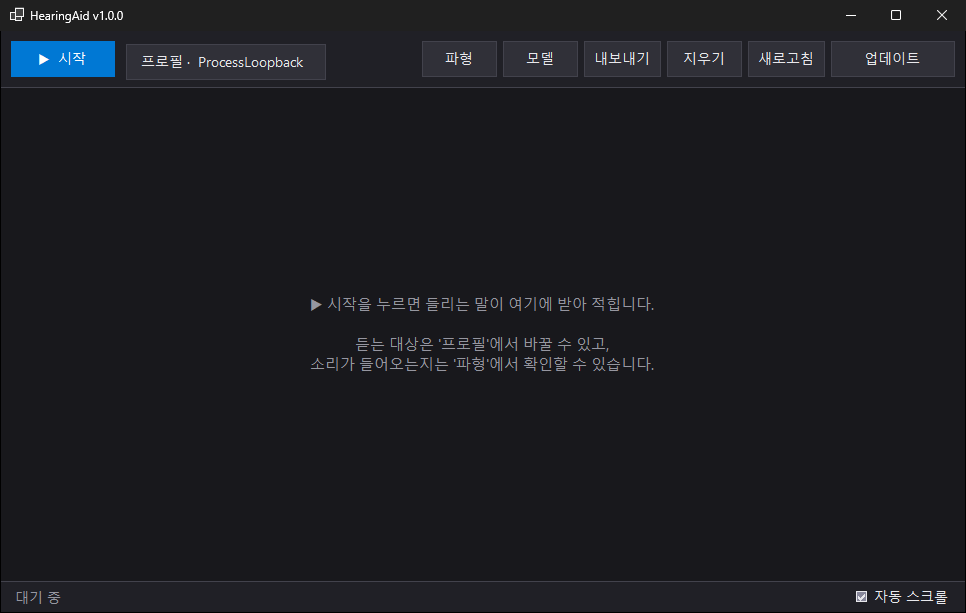
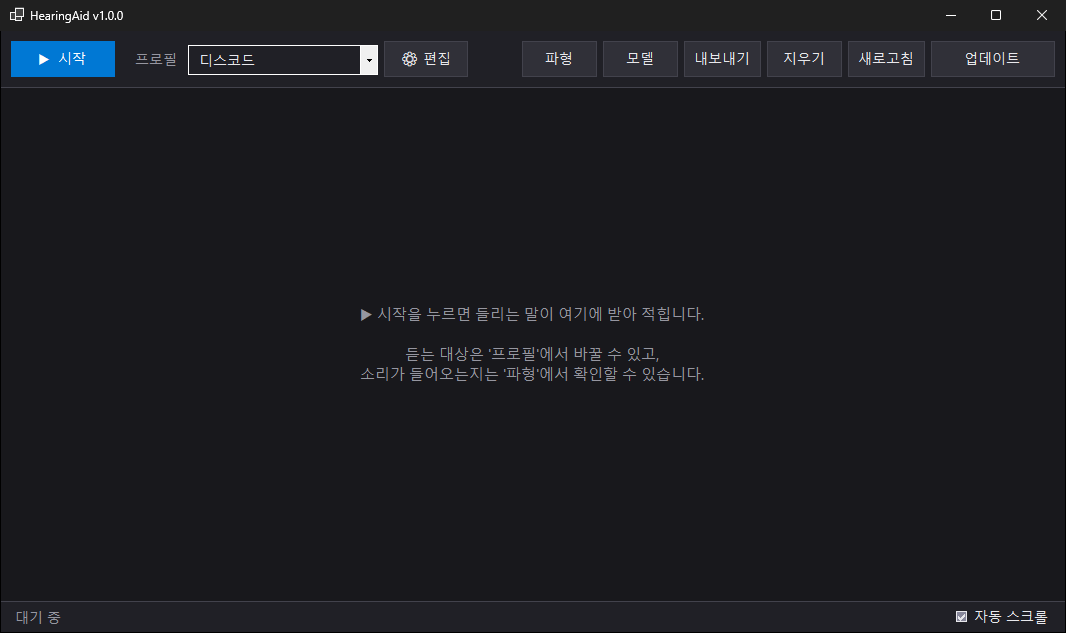
프로필 UI 정리: 기본값 항목 제거, 메인에서 바로 전환, 사용 중 표시 갱신
- 프로필 편집 창에서 "(기본값)" 항목 제거. 프로필이 없으면 안내 문구 표시
- "이 프로필 사용"(이전 "적용") 직후 초록 점·사용 중 표시가 갱신되지 않던 문제 수정
  (MainForm이 새 엔진으로 바꾸기 전이라 이전 엔진의 설정을 보고 있었음)
- 메인: 헷갈리던 "프로필 · 이름" 버튼을 프로필 목록(바로 전환) + "⚙ 편집" 버튼으로 분리
- 콤보박스 항목을 직접 그려 선택 항목이 흰 바탕으로 튀던 문제 해결
- 창 폭을 늘려 도구 모음 버튼이 겹치지 않게
- README·Discord 문서와 스크린샷을 바뀐 이름에 맞춤

diff --git a/src/UI/WinForms/ProfileSettingsForm.cs b/src/UI/WinForms/ProfileSettingsForm.cs
@@ -80,6 +80,12 @@ public class ProfileSettingsForm : Form
 
     string ProfilePath(string name) => Path.Combine(profilesDir, name + ".json");
 
+    /// <summary>사용 중인 프로필 이름. "사용"을 누른 직후에는 MainForm이 아직 새 엔진으로 바꾸기 전이라
+    /// engine.Config는 이전 프로필을 가리키므로, 이 창에서 만든 NewEngine을 우선한다.</summary>
+    string? ActiveProfileName => (NewEngine ?? engine).Config.EffectiveProfileName;
+
+    bool IsActive(string? name) => name is not null && string.Equals(name, ActiveProfileName, StringComparison.OrdinalIgnoreCase);
+
     /// <summary>사이드바 항목: 선택된 항목은 강조색 막대, 사용 중인 프로필은 초록 점으로 표시한다.</summary>
     void DrawProfileItem(object? sender, DrawItemEventArgs e)
     {
@@ -104,7 +110,7 @@ public class ProfileSettingsForm : Form
 
     void BuildUi()
     {
-        Text = "프로필 설정";
+        Text = "프로필 편집";
         Width = 820; Height = 660;
         StartPosition = FormStartPosition.CenterParent;
         FormBorderStyle = FormBorderStyle.FixedDialog;
@@ -144,7 +150,8 @@ public class ProfileSettingsForm : Form
         baseNoteLabel.AutoSize = true;
         baseNoteLabel.Margin = new Padding(12, 0, 12, 0);
         baseNoteLabel.ForeColor = Color.Silver;
-        baseNoteLabel.Text = "(기본값)은 appsettings.json 자체이며 여기서 편집할 수 없습니다. 새 프로필을 만들어 재정의하세요.";
+        baseNoteLabel.Text = "아직 프로필이 없습니다. 왼쪽 아래 '+ 추가'로 만들어 보세요.\n" +
+                             "프로필이 없으면 기본 설정(PC 소리 전체)으로 받아 적습니다.";
         baseNoteLabel.MaximumSize = new Size(540, 0);
 
         // --- 모델 재정의 ---
@@ -278,11 +285,11 @@ public class ProfileSettingsForm : Form
         var buttons = new Panel { Dock = DockStyle.Top, Height = 44 };
         saveBtn.Text = "저장"; saveBtn.Width = 80; saveBtn.Height = 30; saveBtn.Location = new Point(4, 6);
         saveBtn.Click += (s, e) => Save();
-        applyBtn.Text = "적용"; applyBtn.Width = 80; applyBtn.Height = 30; applyBtn.Location = new Point(90, 6);
+        applyBtn.Text = "이 프로필 사용"; applyBtn.Width = 130; applyBtn.Height = 30; applyBtn.Location = new Point(90, 6);
         applyBtn.Click += async (s, e) => await ApplyAsync();
-        refreshBtn.Text = "새로고침"; refreshBtn.Width = 80; refreshBtn.Height = 30; refreshBtn.Location = new Point(176, 6);
+        refreshBtn.Text = "새로고침"; refreshBtn.Width = 80; refreshBtn.Height = 30; refreshBtn.Location = new Point(226, 6);
         refreshBtn.Click += (s, e) => RefreshList();
-        closeBtn.Text = "닫기"; closeBtn.Width = 80; closeBtn.Height = 30; closeBtn.Location = new Point(262, 6);
+        closeBtn.Text = "닫기"; closeBtn.Width = 80; closeBtn.Height = 30; closeBtn.Location = new Point(312, 6);
         closeBtn.Click += (s, e) => Close();
         buttons.Controls.Add(saveBtn);
         buttons.Controls.Add(applyBtn);
@@ -310,11 +317,10 @@ public class ProfileSettingsForm : Form
         try
         {
             list.Items.Clear();
-            list.Items.Add(new ProfileItem(null, engine.Config.EffectiveProfileName is null));
             foreach (var n in Config.ListProfileNames(profilesDir))
-                list.Items.Add(new ProfileItem(n, string.Equals(n, engine.Config.EffectiveProfileName, StringComparison.OrdinalIgnoreCase)));
+                list.Items.Add(new ProfileItem(n, IsActive(n)));
 
-            current.Text = $"현재 프로필: {engine.Config.EffectiveProfileName ?? "(기본값)"}";
+            current.Text = $"사용 중인 프로필: {ActiveProfileName ?? "없음 (기본 설정)"}";
 
             // 처음 열 때는 지금 사용 중인 프로필을, 이후에는 보던 프로필을 그대로 선택한다.
             var items = list.Items.Cast<ProfileItem>().ToList();
@@ -322,7 +328,7 @@ public class ProfileSettingsForm : Form
                 ? items.FindIndex(i => string.Equals(i.Name, keepName, StringComparison.OrdinalIgnoreCase))
                 : items.FindIndex(i => i.Active);
 
-            list.SelectedIndex = idx >= 0 ? idx : 0;
+            list.SelectedIndex = items.Count == 0 ? -1 : Math.Max(idx, 0);
         }
         finally { suppressSelection = false; }
 
@@ -332,7 +338,7 @@ public class ProfileSettingsForm : Form
         }
         else
         {
-            selected = (ProfileItem)list.SelectedItem!;
+            selected = list.SelectedItem as ProfileItem;
             UpdateButtons();
         }
     }
@@ -342,6 +348,7 @@ public class ProfileSettingsForm : Form
         if (list.SelectedItem is not ProfileItem item)
         {
             selected = null;
+            detailTitle.Text = "프로필 없음";
             RenderContentPanel();
             UpdateButtons();
             return;
@@ -356,13 +363,7 @@ public class ProfileSettingsForm : Form
         // currentRows는 여기서 비우지 않는다 — RebuildAudioSourceRows가 옛 행을 패널에서 빼고 정리한다.
         jsonErrorLabel.Text = "";
 
-        if (selected!.Name is null)
-        {
-            detailTitle.Text = "(기본값)";
-            currentPatch = new JsonObject();
-            RenderContentPanel();
-            return;
-        }
+        if (selected?.Name is null) return;
 
         detailTitle.Text = selected.Name;
         string path = ProfilePath(selected.Name);
@@ -568,22 +569,21 @@ public class ProfileSettingsForm : Form
 
     void UpdateButtons()
     {
-        bool isBase = selected?.Name is null;
-        bool jsonOk = isBase || IsOtherJsonValid();
-        bool isActive = selected is not null &&
-            string.Equals(selected.Name, engine.Config.EffectiveProfileName, StringComparison.OrdinalIgnoreCase);
+        bool hasSelection = selected?.Name is not null;
+        bool jsonOk = !hasSelection || IsOtherJsonValid();
+        bool isActive = IsActive(selected?.Name);
 
-        saveBtn.Enabled = selected is not null && !isBase && jsonOk;
-        removeBtn.Enabled = selected is not null && !isBase && !isActive;
+        saveBtn.Enabled = hasSelection && jsonOk;
+        removeBtn.Enabled = hasSelection && !isActive;
 
         if (engine.IsRunning)
         {
             applyBtn.Enabled = false;
-            hint.Text = "캡처를 정지한 뒤 프로필을 전환할 수 있습니다.";
+            hint.Text = "캡처를 정지한 뒤 프로필을 바꿀 수 있습니다.";
         }
         else
         {
-            applyBtn.Enabled = selected is not null && jsonOk;
+            applyBtn.Enabled = hasSelection && jsonOk;
             hint.Text = "";
         }
     }
@@ -648,15 +648,14 @@ public class ProfileSettingsForm : Form
 
     async Task ApplyAsync()
     {
-        if (engine.IsRunning) return;
+        if (engine.IsRunning || selected?.Name is not { } profileName) return;
         applyBtn.Enabled = false;
         try
         {
-            if (selected?.Name is not null) Save();
-            string? profileName = selected?.Name;
+            Save();
 
             NewEngine?.Dispose(); // 이전에 이 폼에서 만들었지만 MainForm에 넘기지 못한 engine(있다면) 정리
-            Config.SetActiveProfile(baseConfigPath, profileName); // Build보다 먼저: null(기본값)일 때도 정확히 반영되도록
+            Config.SetActiveProfile(baseConfigPath, profileName);
             NewEngine = Config.BuildEngine(baseConfigPath, profilesDir, profileName);
 
             RefreshList(reloadDetail: false);
@@ -682,7 +681,7 @@ public class ProfileSettingsForm : Form
     void RemoveSelected()
     {
         if (selected?.Name is not { } name) return;
-        if (string.Equals(name, engine.Config.EffectiveProfileName, StringComparison.OrdinalIgnoreCase))
+        if (IsActive(name))
         {
             MessageBox.Show(this, "현재 사용 중인 프로필은 제거할 수 없습니다.", "제거 불가", MessageBoxButtons.OK, MessageBoxIcon.Warning);
             return;

diff --git a/src/UI/WinForms/MainForm.cs b/src/UI/WinForms/MainForm.cs
@@ -13,7 +13,9 @@ public class MainForm : Form
     readonly Label status = new();
     readonly Button toggleBtn = new();
     readonly CheckBox autoScroll = new();
-    readonly Button profileBtn = new();
+    readonly ComboBox profileCombo = new();
+    readonly Button editProfilesBtn = new();
+    bool suppressProfileSwitch;
     readonly Button updateBtn = new();
     readonly Dictionary<int, ListViewItem> pendingItems = new();
     WaveformForm? waveformForm;
@@ -36,8 +38,8 @@ public class MainForm : Form
     void BuildUi()
     {
         Text = $"HearingAid v{AppUpdater.CurrentVersion.ToString(3)}";
-        Width = 980; Height = 620;
-        MinimumSize = new Size(760, 420);
+        Width = 1080; Height = 640;
+        MinimumSize = new Size(1000, 420); // 이보다 좁으면 왼쪽(시작·프로필)과 오른쪽 버튼 묶음이 겹친다
         StartPosition = FormStartPosition.CenterScreen;
         Font = Theme.Font;
 
@@ -48,12 +50,21 @@ public class MainForm : Form
         toggleBtn.Size = new Size(104, 36);
         toggleBtn.Margin = new Padding(0, 0, 8, 0);
         toggleBtn.Click += async (s, e) => await ToggleAsync();
-        profileBtn.Size = new Size(200, 36);
-        profileBtn.TextAlign = ContentAlignment.MiddleLeft;
-        profileBtn.Padding = new Padding(6, 0, 0, 0);
-        profileBtn.AutoEllipsis = true;
-        profileBtn.Click += (s, e) => OpenProfileSettings();
-        left.Controls.AddRange([toggleBtn, profileBtn]);
+        // 프로필: 콤보박스로 바로 전환하고, 내용 편집은 옆의 별도 버튼으로 연다.
+        var profileLabel = new Label { Text = "프로필", AutoSize = true, ForeColor = Theme.SubText, Margin = new Padding(8, 9, 6, 0) };
+        profileCombo.DropDownStyle = ComboBoxStyle.DropDownList;
+        profileCombo.Width = 190;
+        profileCombo.Margin = new Padding(0, 4, 6, 0);
+        profileCombo.SelectionChangeCommitted += (s, e) =>
+        {
+            SwitchProfile(profileCombo.SelectedItem as string);
+            list.Focus(); // 포커스가 남아 있으면 콤보박스가 선택 강조색(흰 바탕)으로 그려져 튄다
+        };
+        editProfilesBtn.Text = "⚙ 편집";
+        editProfilesBtn.Size = new Size(84, 36);
+        editProfilesBtn.Margin = new Padding(0);
+        editProfilesBtn.Click += (s, e) => OpenProfileSettings();
+        left.Controls.AddRange([toggleBtn, profileLabel, profileCombo, editProfilesBtn]);
 
         var right = new FlowLayoutPanel { Dock = DockStyle.Right, AutoSize = true, WrapContents = false, BackColor = Theme.Surface };
         updateBtn.Text = "업데이트";
@@ -136,6 +147,7 @@ public class MainForm : Form
 
         Theme.Apply(this);
         UpdateToggleButton(running: false);
+        ActiveControl = list; // 첫 포커스가 프로필 콤보박스로 가면 흰 바탕으로 강조돼 보인다
     }
 
     readonly Label emptyHint = new();
@@ -151,6 +163,8 @@ public class MainForm : Form
     {
         toggleBtn.Text = starting ? "시작 중..." : running ? "■  정지" : "▶  시작";
         Theme.StyleButton(toggleBtn, running ? Theme.ButtonKind.Danger : Theme.ButtonKind.Primary);
+        // 캡처 중에는 프로필을 바꿀 수 없다(엔진을 통째로 새로 만들기 때문).
+        profileCombo.Enabled = !running && !starting && Config.ListProfileNames(profilesDir).Count > 0;
     }
 
     void UpdateEmptyHint() => emptyHint.Visible = list.Items.Count == 0;
@@ -204,7 +218,54 @@ public class MainForm : Form
         if (w > 100) list.Columns[2].Width = w;
     }
 
-    void UpdateProfileButton() => profileBtn.Text = $"프로필 ·  {engine.Config.EffectiveProfileName ?? "기본값"}";
+    /// <summary>프로필 콤보박스를 profiles/ 목록으로 다시 채우고 지금 쓰는 프로필을 선택한다.
+    /// 프로필이 하나도 없으면 비활성화하고 안내 문구만 보인다(이때는 기본 설정으로 동작).</summary>
+    void UpdateProfileButton()
+    {
+        suppressProfileSwitch = true;
+        try
+        {
+            var names = Config.ListProfileNames(profilesDir);
+            profileCombo.Items.Clear();
+            if (names.Count == 0)
+            {
+                profileCombo.Items.Add("(프로필 없음)");
+                profileCombo.SelectedIndex = 0;
+                profileCombo.Enabled = false;
+                return;
+            }
+
+            profileCombo.Items.AddRange(names.Cast<object>().ToArray());
+            profileCombo.SelectedItem = names.FirstOrDefault(n =>
+                string.Equals(n, engine.Config.EffectiveProfileName, StringComparison.OrdinalIgnoreCase));
+            profileCombo.Enabled = !engine.IsRunning;
+        }
+        finally { suppressProfileSwitch = false; }
+    }
+
+    void SwitchProfile(string? name)
+    {
+        if (suppressProfileSwitch || name is null) return;
+        if (string.Equals(name, engine.Config.EffectiveProfileName, StringComparison.OrdinalIgnoreCase)) return;
+        if (engine.IsRunning)
+        {
+            status.Text = "캡처를 정지한 뒤 프로필을 바꿀 수 있습니다.";
+            UpdateProfileButton();
+            return;
+        }
+
+        try
+        {
+            Config.SetActiveProfile(baseConfigPath, name);
+            ReplaceEngine(Config.BuildEngine(baseConfigPath, profilesDir, name));
+            status.Text = $"프로필 '{name}'(으)로 바꿨습니다.";
+        }
+        catch (Exception ex)
+        {
+            status.Text = $"프로필 전환 실패: {ex.Message}";
+            UpdateProfileButton();
+        }
+    }
 
     void OpenProfileSettings()
     {
@@ -212,6 +273,8 @@ public class MainForm : Form
         dlg.ShowDialog(this);
         if (dlg.NewEngine is { } newEngine)
             ReplaceEngine(newEngine);
+        else
+            UpdateProfileButton(); // 편집 창에서 프로필을 추가·삭제했을 수 있다
     }
 
     void ReplaceEngine(ITranscriber newEngine)

diff --git a/src/UI/WinForms/Theme.cs b/src/UI/WinForms/Theme.cs
@@ -72,6 +72,13 @@ static class Theme
                 cb.ForeColor = Text;
                 UseDarkScrollBars(cb, "DarkMode_CFD");
                 BlockWheelValueChange(cb, () => cb.DroppedDown);
+                if (cb.DropDownStyle == ComboBoxStyle.DropDownList && cb.DrawMode == DrawMode.Normal)
+                {
+                    // 시스템은 선택된 항목을 흰 바탕 강조색으로 그려 어두운 화면에서 튀므로 직접 그린다.
+                    cb.DrawMode = DrawMode.OwnerDrawFixed;
+                    cb.ItemHeight = Math.Max(cb.ItemHeight, cb.Font.Height + 6);
+                    cb.DrawItem += (s, e) => DrawComboItem(cb, e);
+                }
                 break;
             case NumericUpDown nud:
                 nud.BackColor = Surface;
@@ -220,6 +227,23 @@ static class Theme
         var textBounds = Rectangle.Inflate(e.Bounds, -8, 0);
         TextRenderer.DrawText(e.Graphics, e.Header?.Text, font, textBounds, SubText,
             TextFormatFlags.VerticalCenter | TextFormatFlags.Left | TextFormatFlags.EndEllipsis);
+    }
+
+    /// <summary>콤보박스 항목. 펼친 목록에서 가리킨 항목만 강조색으로 칠하고, 접힌 상태(편집 영역)는 늘 어두운 바탕이다.
+    /// GetItemText를 써서 Format 이벤트(예: 오디오 소스 표시 이름)가 그대로 반영된다.</summary>
+    static void DrawComboItem(ComboBox cb, DrawItemEventArgs e)
+    {
+        bool inEditArea = (e.State & DrawItemState.ComboBoxEdit) != 0;
+        bool highlighted = !inEditArea && (e.State & DrawItemState.Selected) != 0;
+
+        using (var back = new SolidBrush(highlighted ? Accent : Surface))
+            e.Graphics.FillRectangle(back, e.Bounds);
+        if (e.Index < 0) return;
+
+        Color color = !cb.Enabled ? SubText : highlighted ? Color.White : Text;
+        TextRenderer.DrawText(e.Graphics, cb.GetItemText(cb.Items[e.Index]), cb.Font,
+            Rectangle.Inflate(e.Bounds, -4, 0), color,
+            TextFormatFlags.VerticalCenter | TextFormatFlags.Left | TextFormatFlags.EndEllipsis | TextFormatFlags.NoPrefix);
     }
 
     static void StyleGrid(DataGridView grid)

diff --git a/README.md b/README.md
@@ -118,7 +118,8 @@
 | 버튼 | 하는 일 |
 |---|---|
 | **시작 / 정지** | 받아 적기를 시작하거나 멈춤 |
-| **프로필** | 오디오 소스, 모델, 화자별 모델 등을 프로필로 관리 |
+| **프로필** (목록) | 사용할 프로필을 골라 바로 전환 (캡처를 정지한 상태에서) |
+| **⚙ 편집** | 프로필 추가·삭제, 오디오 소스·모델·화자별 모델 설정 |
 | **모델** | 모델 다운로드·삭제, 기본 모델 지정 |
 | **파형** | 들어오는 소리 크기를 실시간으로 표시. 받아 적기가 안 될 때 확인용 |
 | **내보내기** | TXT / CSV로 저장 |
@@ -126,10 +127,13 @@
 
 ### 프로필 만들기
 
-1. **프로필 → + 추가**로 프로필을 만듭니다.
+1. **⚙ 편집 → + 추가**로 프로필을 만듭니다.
 2. **오디오 소스 재정의**를 체크하고 종류를 고릅니다. 각 설정 아래에 설명이 표시됩니다.
 3. 필요하면 **모델 재정의**나 **화자별 모델**을 지정합니다.
-4. **저장 → 적용**을 누른 뒤 메인 화면에서 **시작**합니다.
+4. **저장 → 이 프로필 사용**을 누른 뒤 메인 화면에서 **시작**합니다.
+   이후에는 메인 화면의 프로필 목록에서 바로 바꿀 수 있습니다.
+
+프로필이 하나도 없으면 기본 설정(PC 소리 전체)으로 받아 적습니다.
 
 Discord 음성 채널을 받아 적으려면 봇을 먼저 만들어야 합니다. [Discord 설정 가이드](docs/discord.md)를 따라 하세요.
 
